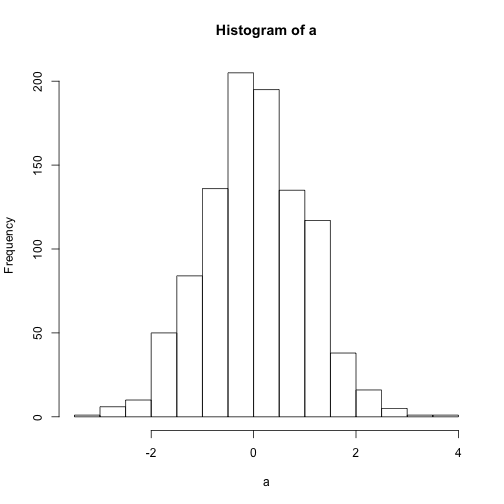
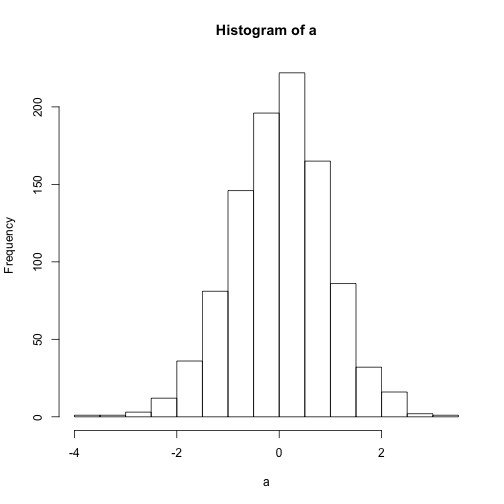
.

diff --git a/_posts/2014-01-19-matlab-to-R.md b/_posts/2014-01-19-matlab-to-R.md
@@ -116,10 +116,10 @@ easier than I had anticipated.
    
    ```
    ## List of 6
-   ##  $ breaks  : num [1:16] -3.5 -3 -2.5 -2 -1.5 -1 -0.5 0 0.5 1 ...
-   ##  $ counts  : int [1:15] 1 6 10 50 84 136 205 195 135 117 ...
-   ##  $ density : num [1:15] 0.002 0.012 0.02 0.1 0.168 0.272 0.41 0.39 0.27 0.234 ...
-   ##  $ mids    : num [1:15] -3.25 -2.75 -2.25 -1.75 -1.25 -0.75 -0.25 0.25 0.75 1.25 ...
+   ##  $ breaks  : num [1:16] -4 -3.5 -3 -2.5 -2 -1.5 -1 -0.5 0 0.5 ...
+   ##  $ counts  : int [1:15] 1 1 3 12 36 81 146 196 222 165 ...
+   ##  $ density : num [1:15] 0.002 0.002 0.006 0.024 0.072 0.162 0.292 0.392 0.444 0.33 ...
+   ##  $ mids    : num [1:15] -3.75 -3.25 -2.75 -2.25 -1.75 -1.25 -0.75 -0.25 0.25 0.75 ...
    ##  $ xname   : chr "a"
    ##  $ equidist: logi TRUE
    ##  - attr(*, "class")= chr "histogram"
